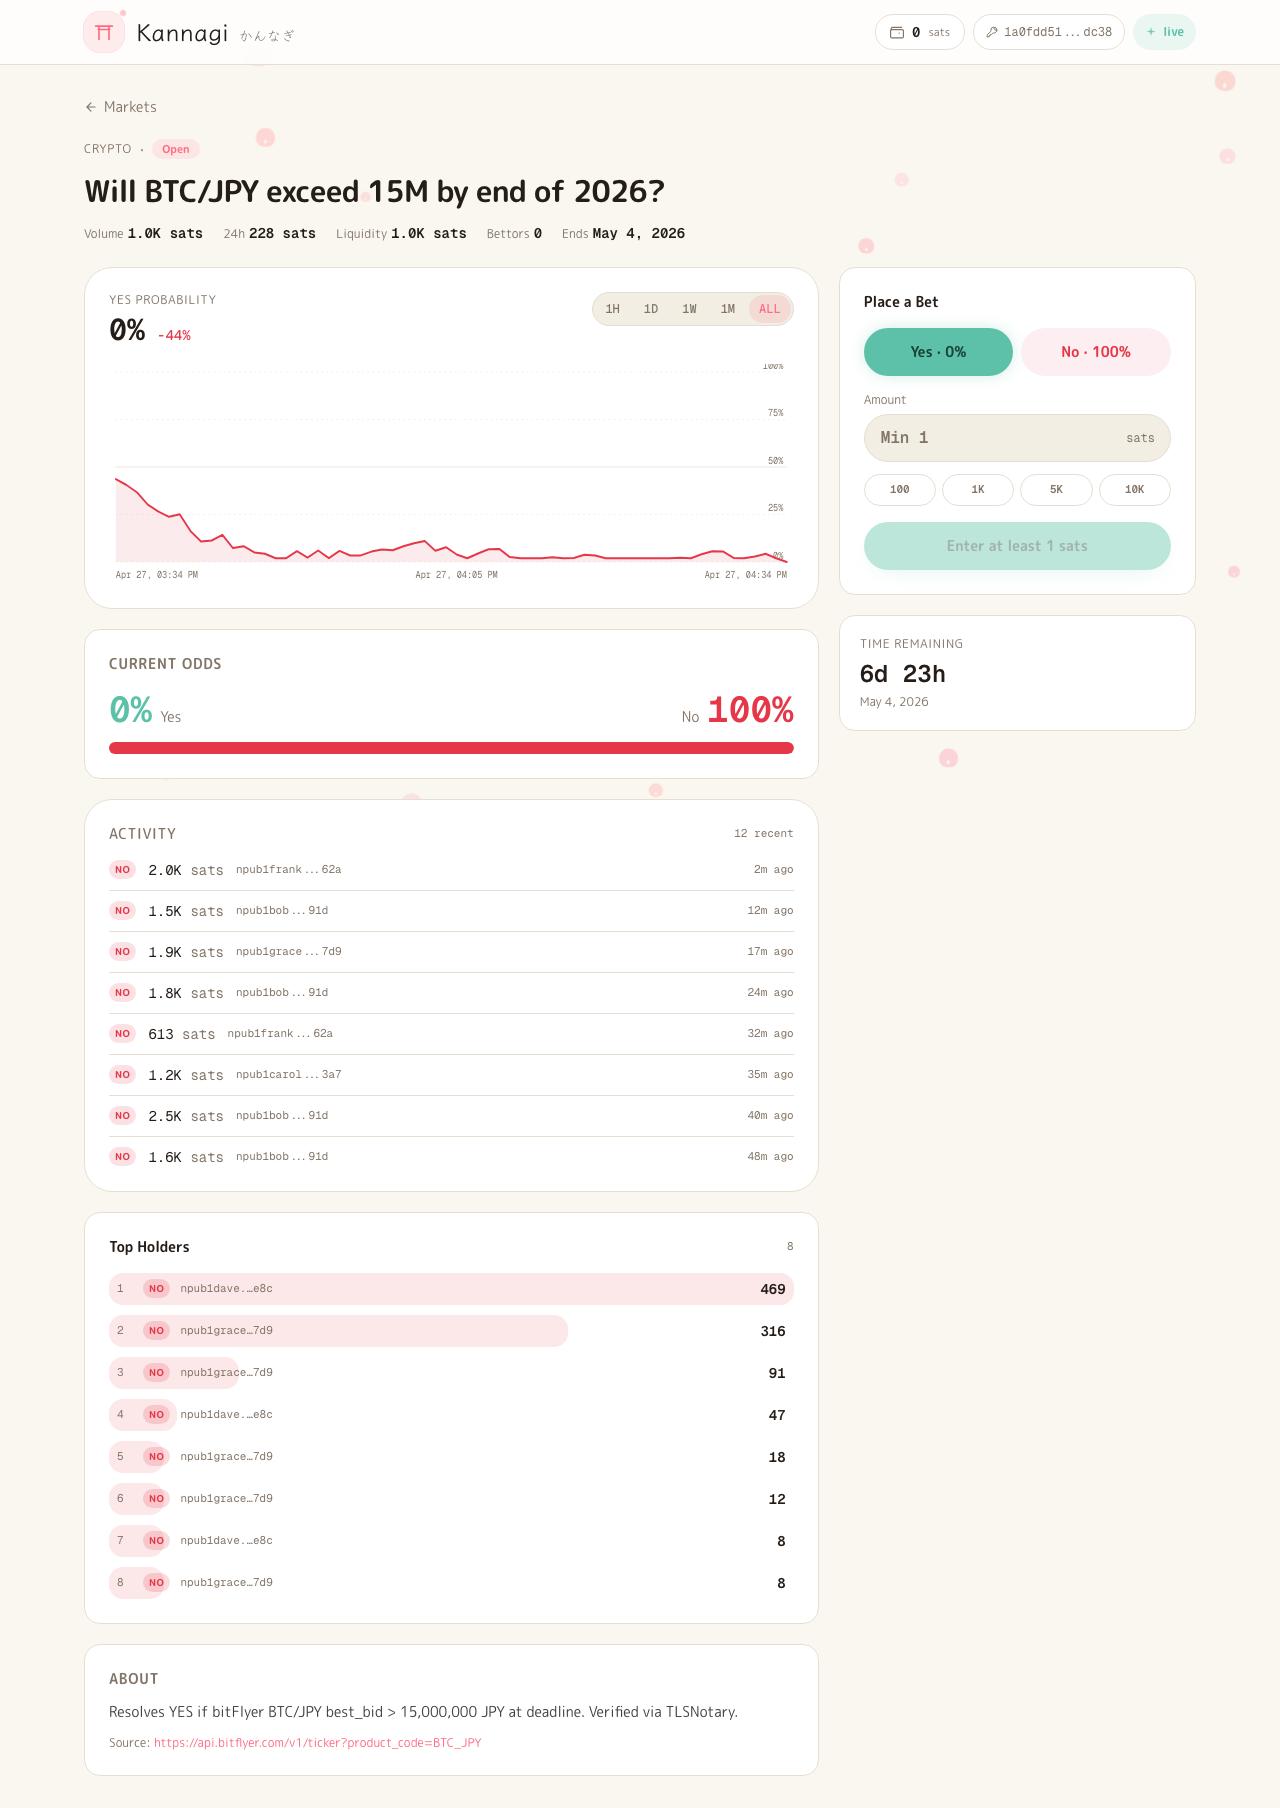
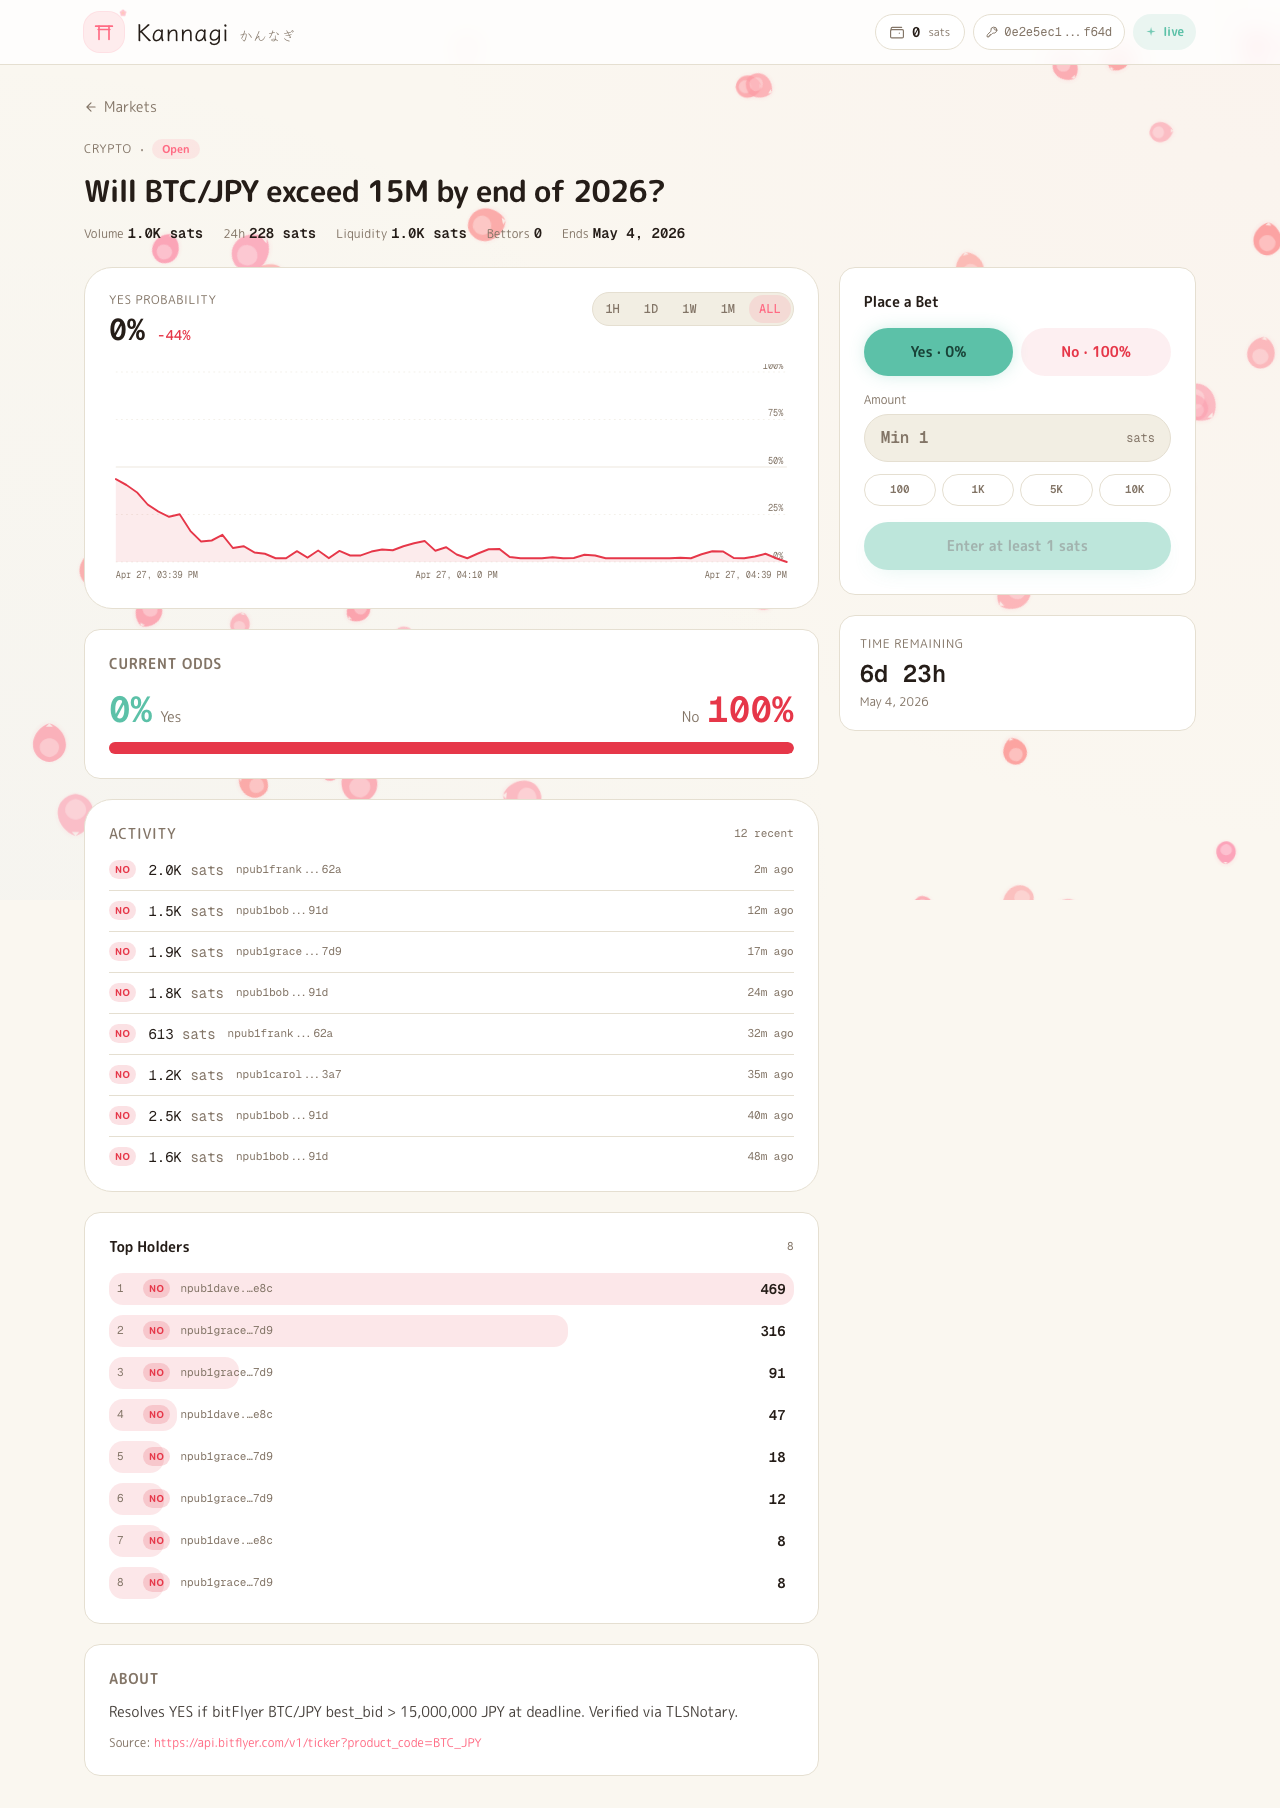
feat(prediction-market): real falling sakura — actual descent + sway + spin
The previous "sakura field" was a static scatter that swayed in place by a
few pixels — too subtle to read as cherry blossoms. Replace with petals
that actually fall: each one descends from -12vh to 112vh over 11–25s,
drifts sideways by 40–150px (sinusoidal, baked into the keyframe at the
25 / 50 / 75% stops), and spins 240–780° in either direction.

Per-petal variation comes from CSS custom properties (--sway, --spin) and
inline animation-duration / -delay; one shared keyframe keeps the work
on the compositor. Negative animation-delay staggers petals so the field
is full at t=0 instead of empty.

Petal SVG is reshaped to fill the viewBox (so 22–48px elements actually
look 22–48px), with a translucent inner highlight and a soft pink
drop-shadow for volume. Removed the wasted `bg-background` from the
outer wrapper so the field at z-0 isn't hidden behind it; body's
bg-background is the canvas. Cards stay opaque white and remain
readable. prefers-reduced-motion freezes petals in place.

diff --git a/example/prediction-market/ui/components/SakuraField.tsx b/example/prediction-market/ui/components/SakuraField.tsx
@@ -1,14 +1,21 @@
 import React, { useMemo } from "react";
 
 interface Petal {
-  x: number;       // 0-100 (vw)
-  y: number;       // 0-100 (vh, relative to canvas)
-  size: number;    // px
-  rotation: number;
-  hue: number;     // hsl hue (around 350 = sakura)
+  /** Horizontal start (vw). */
+  x: number;
+  /** Petal width/height in px. */
+  size: number;
+  /** Hue around sakura pink. */
+  hue: number;
   opacity: number;
-  drift: number;   // animation duration multiplier
-  phase: number;   // animation phase offset
+  /** Fall duration in seconds. */
+  duration: number;
+  /** Negative animation-delay so each petal starts mid-fall on mount. */
+  delay: number;
+  /** Horizontal sway amplitude in px (drift left/right while falling). */
+  sway: number;
+  /** Total rotation across one fall in degrees. */
+  spin: number;
 }
 
 function rng(seed: number): () => number {
@@ -26,64 +33,89 @@ function buildField(seed: number, count: number): Petal[] {
   const r = rng(seed);
   const petals: Petal[] = [];
   for (let i = 0; i < count; i++) {
+    const duration = 11 + r() * 14;       // 11–25s — slow, lazy fall
     petals.push({
       x: r() * 100,
-      y: r() * 220, // span 220vh — enough for long detail pages
-      size: 16 + r() * 30,
-      rotation: r() * 360,
-      hue: 345 + r() * 18,        // sakura pink range (345–363)
-      opacity: 0.22 + r() * 0.28, // 22–50%
-      drift: 12 + r() * 18,        // 12–30s sway period
-      phase: r() * 30,             // negative animation-delay seed
+      size: 22 + r() * 26,                // 22–48px (bigger, easier to see)
+      hue: 345 + r() * 18,                // 345–363 (sakura pink)
+      opacity: 0.55 + r() * 0.40,         // 55–95%
+      duration,
+      delay: r() * duration,              // staggered so the field is full at t=0
+      sway: 40 + r() * 110,               // 40–150px lateral drift
+      spin: (r() < 0.5 ? -1 : 1) * (240 + r() * 540), // ±240–780° per fall
     });
   }
   return petals;
 }
 
 interface SakuraFieldProps {
-  /** Number of petals (default 36). */
+  /** Number of petals (default 70). */
   count?: number;
   /** Deterministic seed (default fixed). */
   seed?: number;
 }
 
 /**
- * A drift of sakura (桜) petals scattered behind the content. Pure SVG, no
- * canvas / no JS animation loop — each petal sways via a CSS keyframe with
- * a randomized phase. Sits at `position: fixed`, `z-index: 0`, so the
- * page content (which gets `relative z-10`) renders cleanly on top.
+ * Falling sakura — a fixed full-viewport layer of petals that descend from
+ * above the screen, drift sideways with the wind, and rotate as they fall.
+ * Pure CSS animation: each petal has its own duration / delay / sway / spin
+ * baked in via custom properties, all driven by one shared keyframe so the
+ * compositor handles the work.
+ *
+ * Sits at z-index -10 behind everything (content gets `relative z-10`).
+ * Honors `prefers-reduced-motion` by holding petals in place.
  */
-export function SakuraField({ count = 56, seed = 0xCAFE_F10 }: SakuraFieldProps) {
+export function SakuraField({ count = 70, seed = 0xCAFE_F10 }: SakuraFieldProps) {
   const petals = useMemo(() => buildField(seed, count), [seed, count]);
 
   return (
     <div
       aria-hidden="true"
-      className="pointer-events-none fixed inset-0 -z-0 overflow-hidden"
+      className="pointer-events-none fixed inset-0 z-0 overflow-hidden"
     >
       {petals.map((p, i) => (
-        <svg
+        <span
           key={i}
-          width={p.size}
-          height={p.size}
-          viewBox="0 0 32 32"
-          className="absolute sakura-drift"
+          className="sakura-petal absolute block"
           style={{
             left: `${p.x}vw`,
-            top: `${p.y}vh`,
-            transform: `rotate(${p.rotation}deg)`,
+            width: p.size,
+            height: p.size,
+            color: `hsl(${p.hue.toFixed(0)} 95% 80%)`,
             opacity: p.opacity,
-            animationDuration: `${p.drift}s`,
-            animationDelay: `-${p.phase}s`,
-            color: `hsl(${p.hue.toFixed(0)} 100% 84%)`,
+            animationDuration: `${p.duration.toFixed(2)}s`,
+            animationDelay: `-${p.delay.toFixed(2)}s`,
+            ["--sway" as string]: `${p.sway.toFixed(0)}px`,
+            ["--spin" as string]: `${p.spin.toFixed(0)}deg`,
+            filter: "drop-shadow(0 1px 2px rgba(255, 110, 140, 0.18))",
           }}
         >
-          {/* Single sakura petal — teardrop with notched tip */}
-          <path
-            d="M16 3 C 22 3 25 9 23 14 C 22 17 19 18 16 18 C 13 18 10 17 9 14 C 7 9 10 3 16 3 Z M16 12 L 14.5 14 L 16 16 L 17.5 14 Z"
-            fill="currentColor"
-          />
-        </svg>
+          <svg
+            viewBox="0 0 32 32"
+            width="100%"
+            height="100%"
+            className="block"
+          >
+            {/* Sakura petal — rounded teardrop filling the viewBox, with a
+             * subtle V-notch at the tip. Inner darker outline gives volume. */}
+            <path
+              d="
+                M16 1.5
+                C 23 2 29 8 28 16
+                C 27.4 22 22.5 28 16 30
+                C 9.5 28 4.6 22 4 16
+                C 3 8 9 2 16 1.5 Z
+                M13.4 27.4 L 16 30 L 18.6 27.4 Z"
+              fill="currentColor"
+              fillRule="evenodd"
+            />
+            {/* Inner highlight — slightly lighter, gives a sense of volume. */}
+            <path
+              d="M16 5 C 20 5.5 24 9 23 14 C 22 17 19 19 16 19 C 13 19 10 17 9 14 C 8 9 12 5.5 16 5 Z"
+              fill="rgba(255, 255, 255, 0.32)"
+            />
+          </svg>
+        </span>
       ))}
     </div>
   );

diff --git a/example/prediction-market/ui/globals.css b/example/prediction-market/ui/globals.css
@@ -152,23 +152,39 @@
 }
 .animate-sparkle { animation: sparkle-pulse 2.4s ease-in-out infinite; }
 
-/* Sakura petals — gentle sway in place. Pairs with `.sakura-drift` set
- * via inline style for per-petal duration + phase (see SakuraField). */
-@keyframes sakura-sway {
-  0%   { transform: translate(0, 0)    rotate(0deg); }
-  25%  { transform: translate(8px, 6px)  rotate(8deg); }
-  50%  { transform: translate(-4px, 14px) rotate(-6deg); }
-  75%  { transform: translate(-10px, 8px) rotate(4deg); }
-  100% { transform: translate(0, 0)    rotate(0deg); }
+/* Falling sakura — petals descend from above the viewport, drift sideways
+ * with the wind, and spin as they fall. Per-petal duration / delay / sway
+ * amplitude / spin direction come from the inline-style custom properties
+ * set in SakuraField.tsx. One shared keyframe; the compositor does the
+ * rest, so 70 petals stay smooth. */
+@keyframes sakura-fall {
+  0% {
+    transform: translate3d(0, -12vh, 0) rotate(0deg);
+  }
+  25% {
+    transform: translate3d(var(--sway), 22vh, 0) rotate(calc(var(--spin) * 0.25));
+  }
+  50% {
+    transform: translate3d(0, 50vh, 0) rotate(calc(var(--spin) * 0.5));
+  }
+  75% {
+    transform: translate3d(calc(var(--sway) * -1), 78vh, 0) rotate(calc(var(--spin) * 0.75));
+  }
+  100% {
+    transform: translate3d(0, 112vh, 0) rotate(var(--spin));
+  }
 }
-.sakura-drift {
-  animation-name: sakura-sway;
+
+.sakura-petal {
+  top: 0;
+  animation-name: sakura-fall;
+  animation-timing-function: linear;
   animation-iteration-count: infinite;
-  animation-timing-function: ease-in-out;
   will-change: transform;
 }
+
 @media (prefers-reduced-motion: reduce) {
-  .sakura-drift { animation: none; }
+  .sakura-petal { animation: none; transform: translateY(40vh); }
 }
 
 /* Soft pink glow shadow for hover/focus highlights */

diff --git a/example/prediction-market/ui/MarketApp.tsx b/example/prediction-market/ui/MarketApp.tsx
@@ -77,7 +77,7 @@ export function MarketApp() {
 
   if (selectedMarket) {
     return (
-      <div className="min-h-screen bg-background relative">
+      <div className="min-h-screen relative">
         <SakuraField />
         <div className="relative z-10">
           <Header />
@@ -97,7 +97,7 @@ export function MarketApp() {
   }
 
   return (
-    <div className="min-h-screen bg-background relative">
+    <div className="min-h-screen relative">
       <SakuraField />
       <div className="relative z-10">
       <Header />
